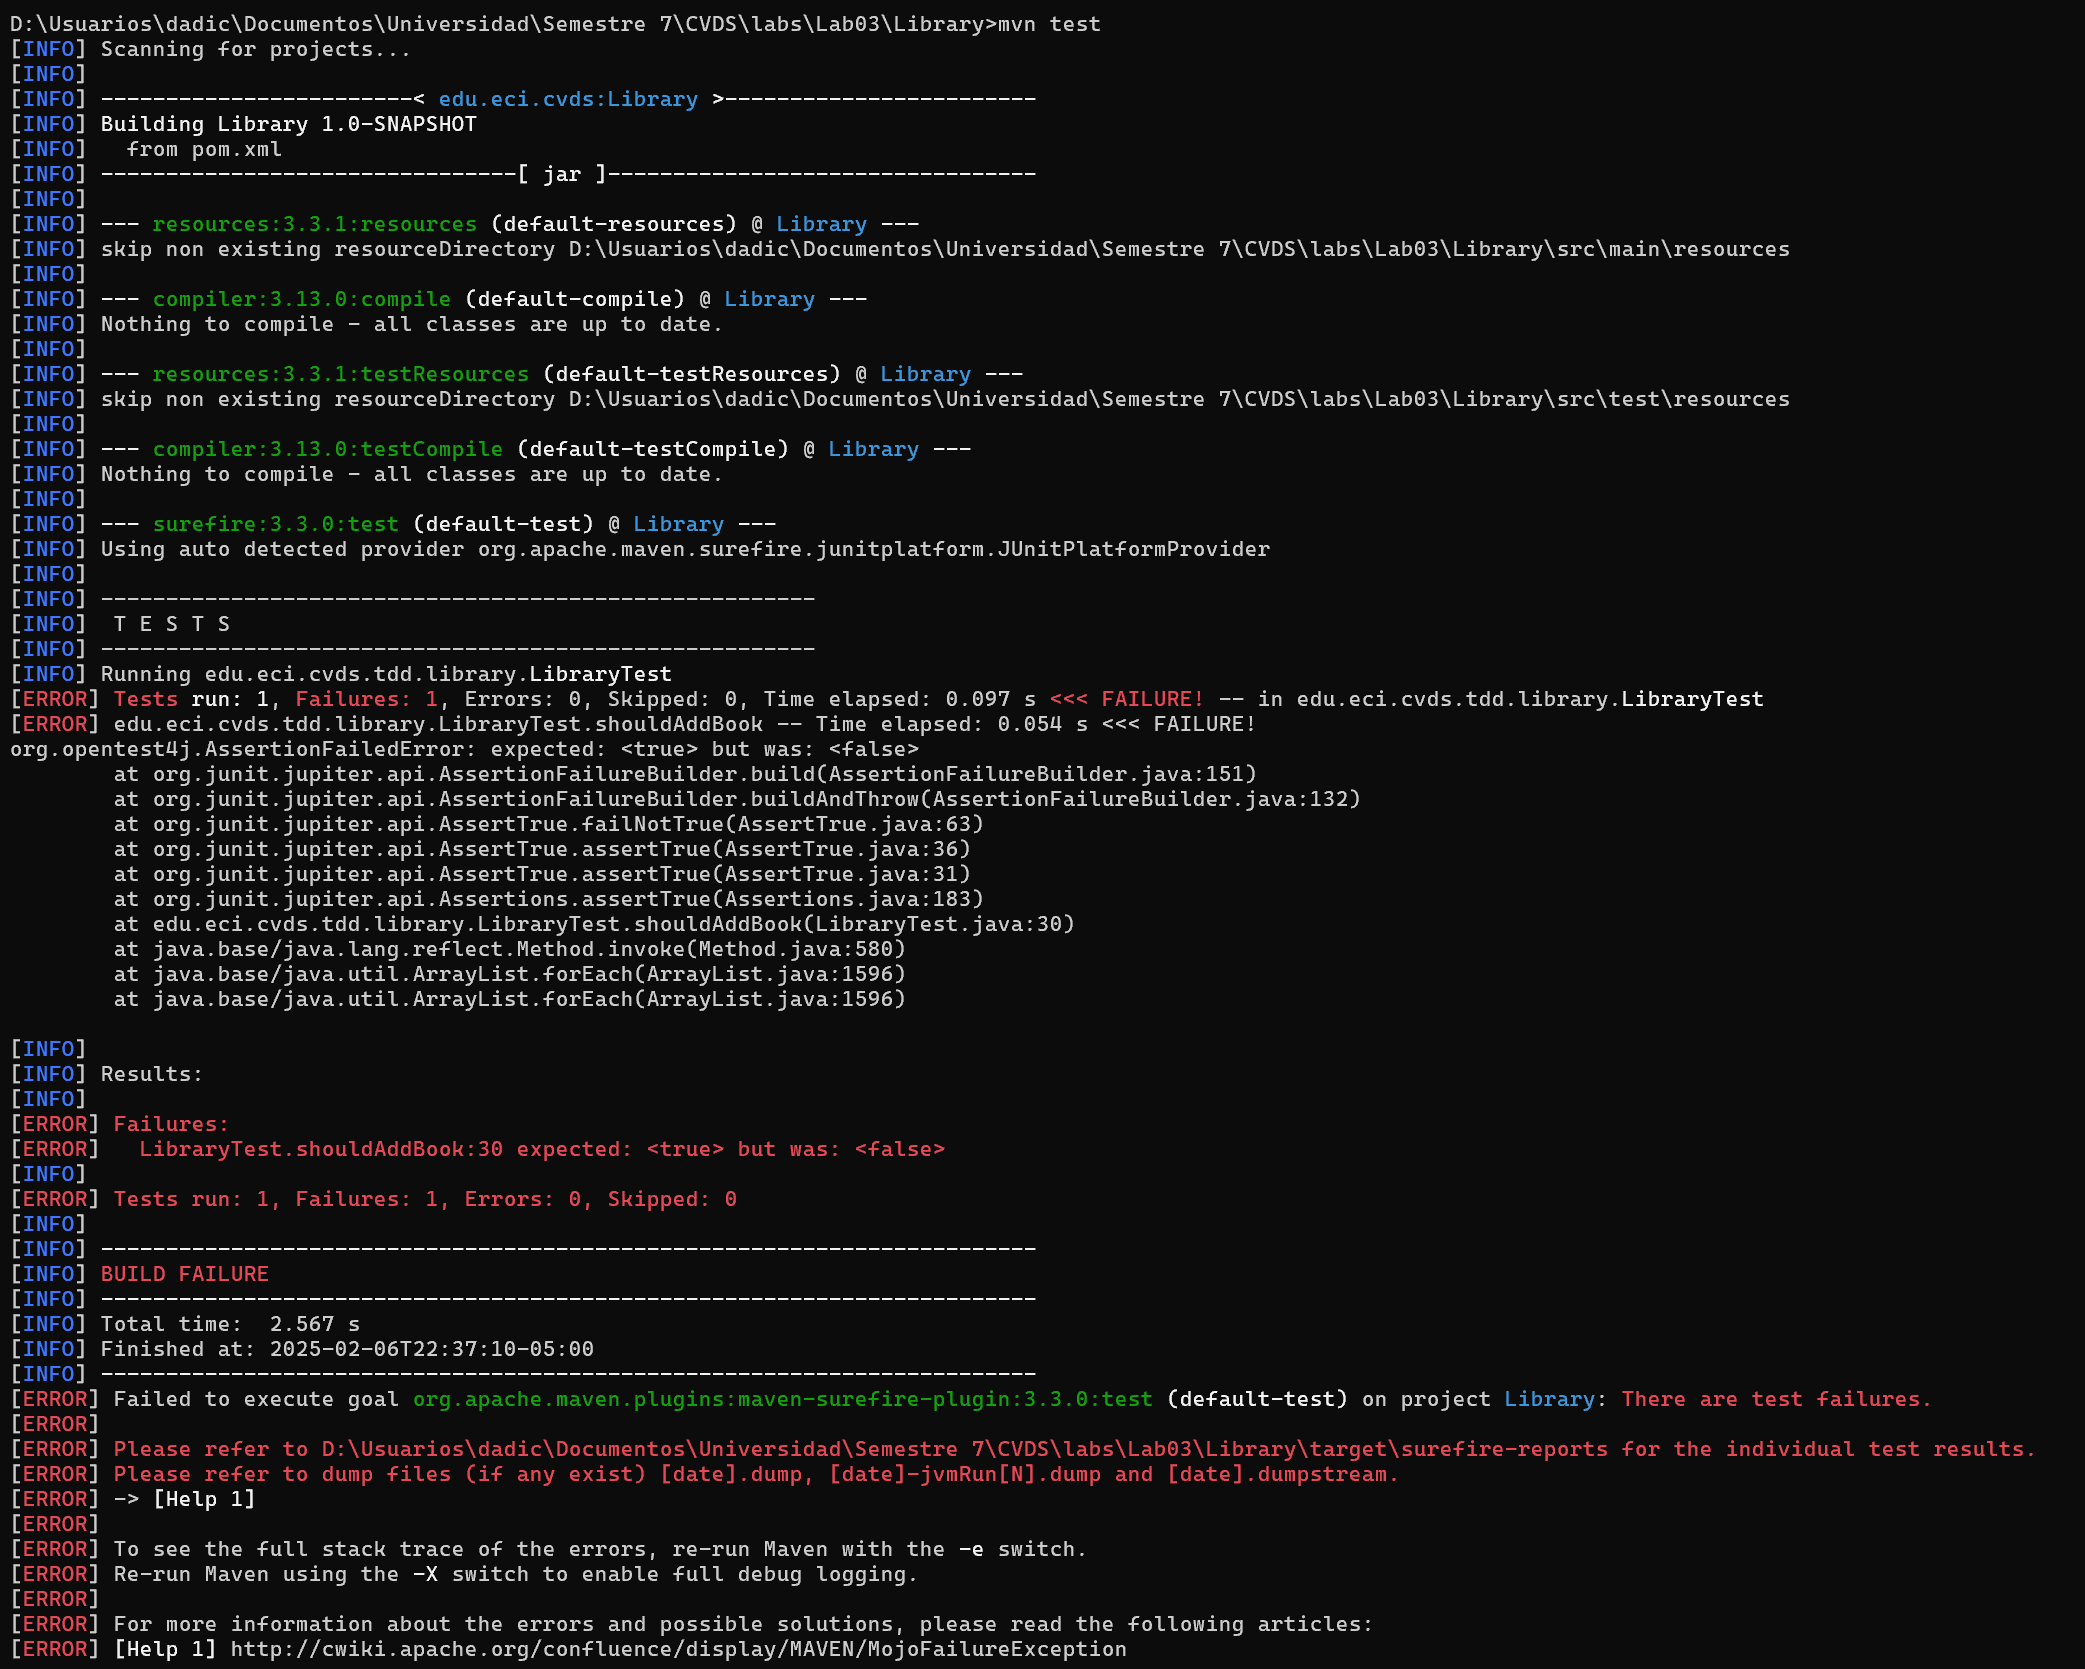
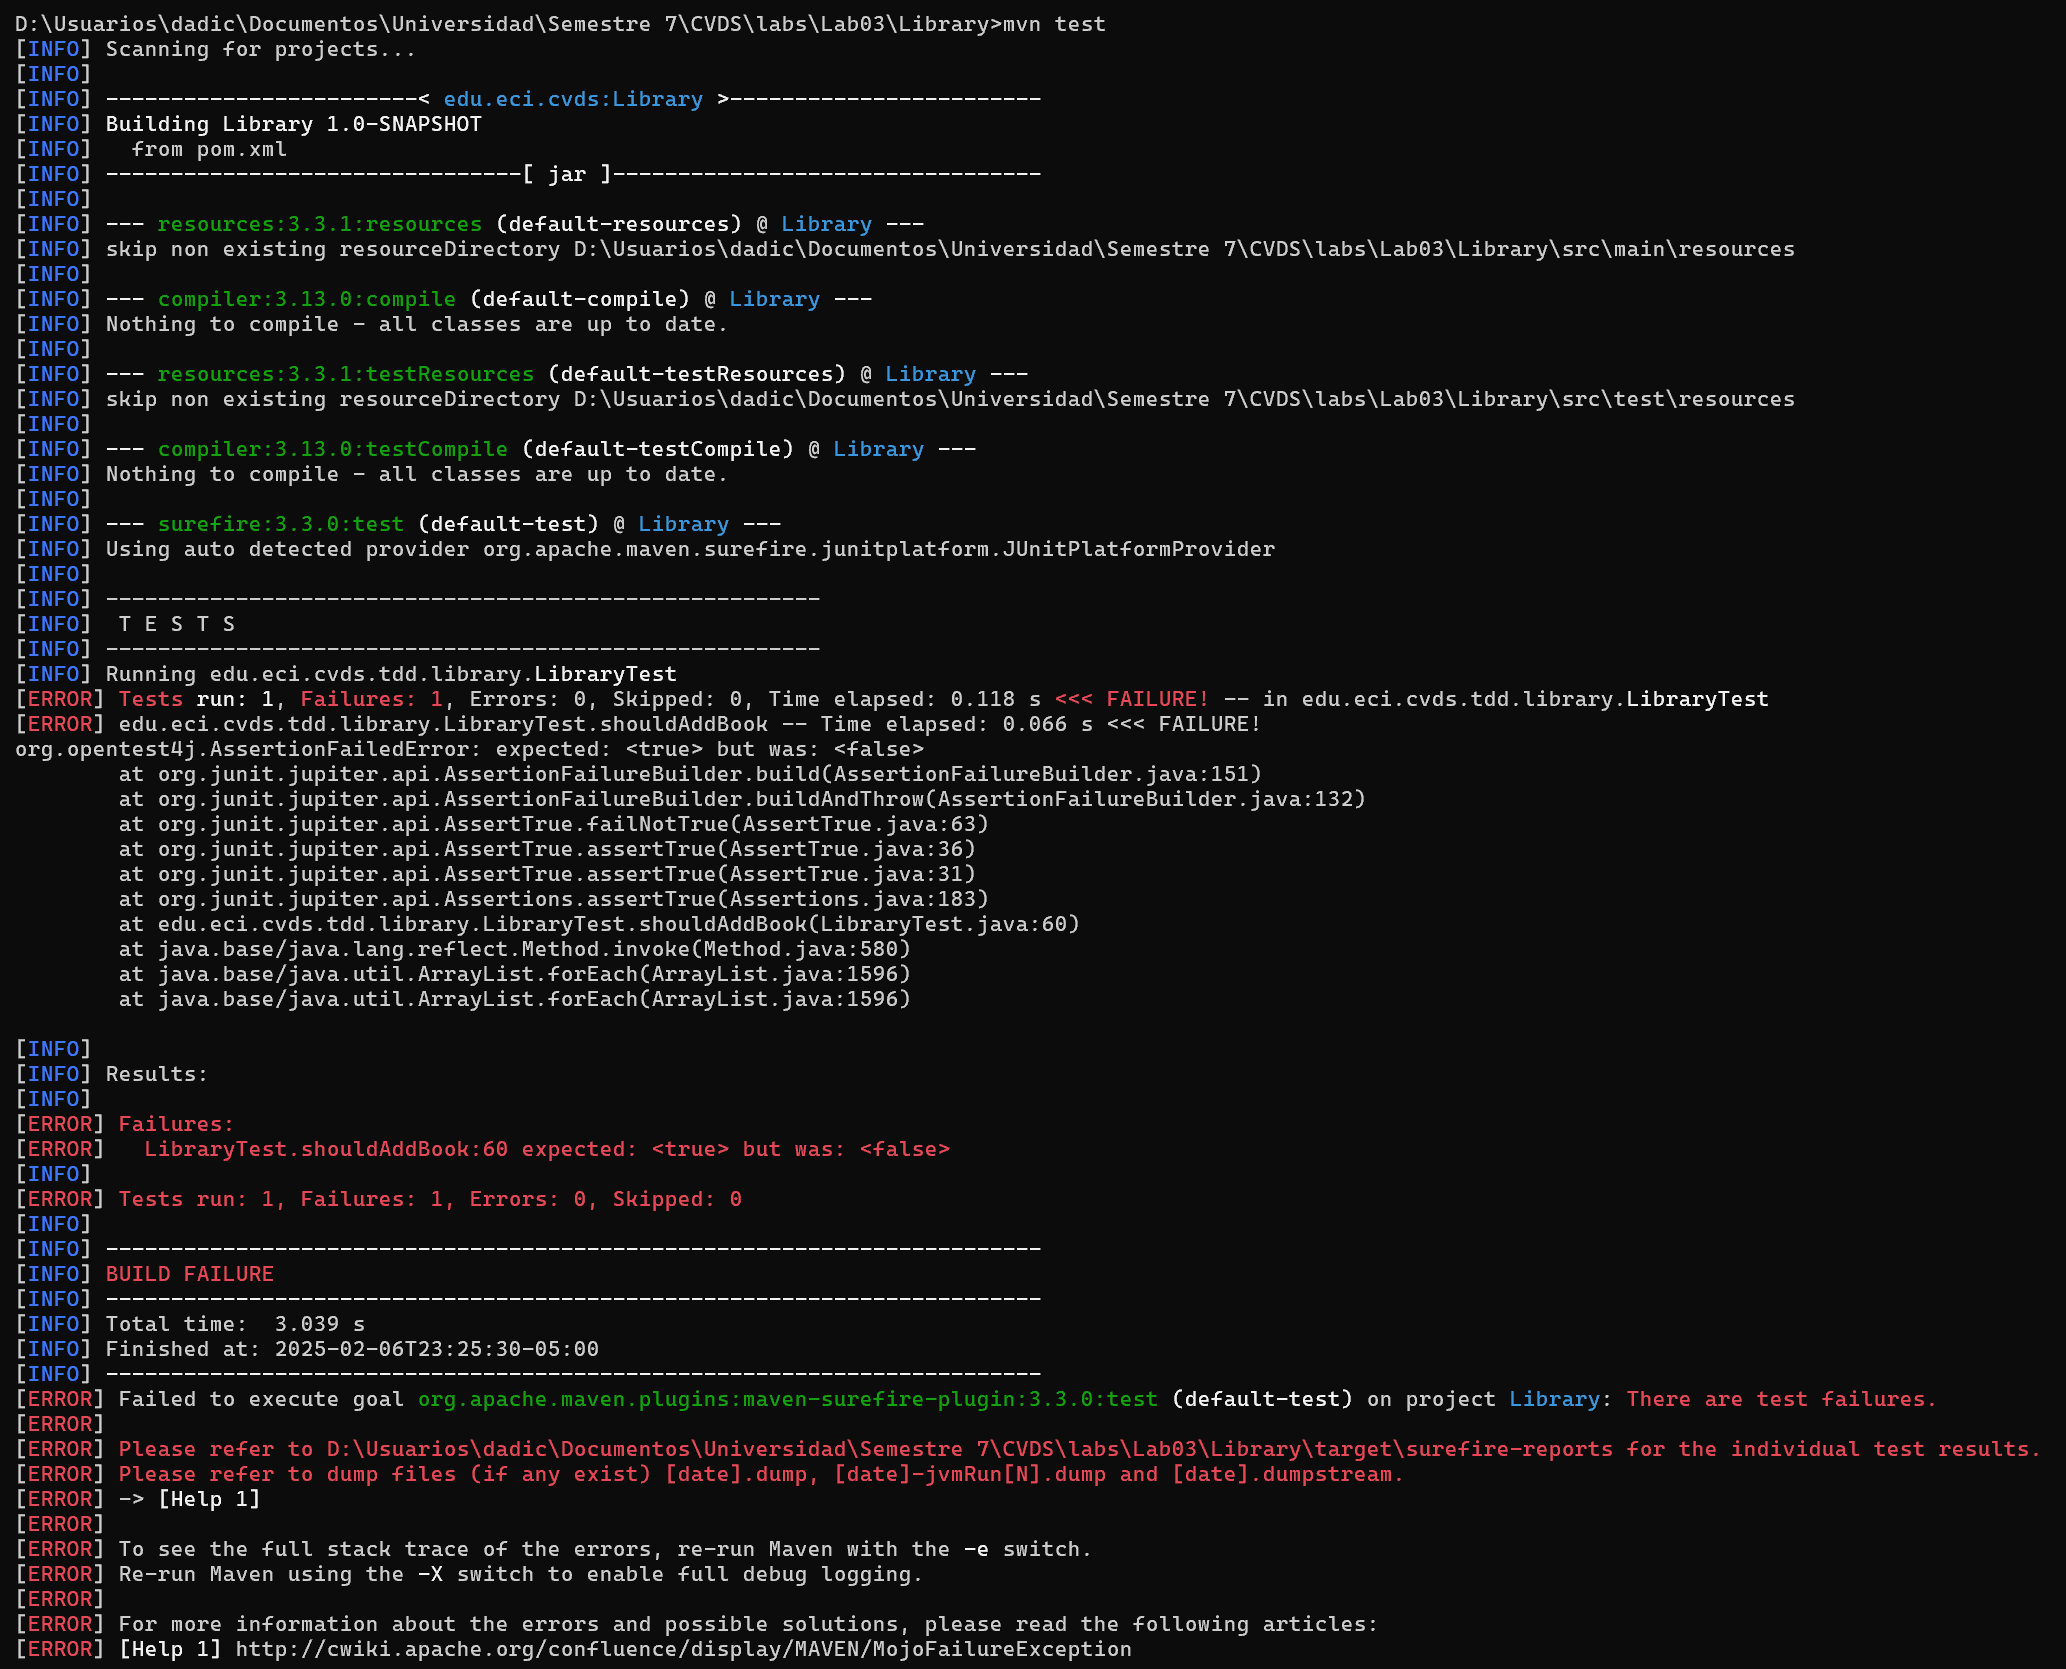
Implemente la prueba shouldLoanABook

Changed region(s): [[0.0, 0.0, 0.9603, 0.997]]

diff --git a/src/test/java/edu/eci/cvds/tdd/library/LibraryTest.java b/src/test/java/edu/eci/cvds/tdd/library/LibraryTest.java
@@ -1,11 +1,16 @@
 package edu.eci.cvds.tdd.library;
 
+import static org.junit.jupiter.api.Assertions.assertEquals;
+import static org.junit.jupiter.api.Assertions.assertNotNull;
 import static org.junit.jupiter.api.Assertions.assertTrue;
 
 import org.junit.jupiter.api.BeforeEach;
 import org.junit.jupiter.api.Test;
 
 import edu.eci.cvds.tdd.library.book.Book;
+import edu.eci.cvds.tdd.library.loan.Loan;
+import edu.eci.cvds.tdd.library.loan.LoanStatus;
+import edu.eci.cvds.tdd.library.user.User;
 
 public class LibraryTest {
     private Library library;
@@ -14,23 +19,65 @@ public class LibraryTest {
     private Book book3;
     private Book book4;
     private Book book5;
+    private User user1;
+    private User user2;
+
+    private User createUser(String name, String id) {
+        User user = new User();
+        user.setName(name);
+        user.setId(id);
+
+        return user;
+    }
     
     @BeforeEach
     public void setUp() {
         library = new Library();
+
         book1 = new Book("El principito", "Antoine de Saint-Exupéry", "978-607-99498-0-8");
         book2 = new Book("El principito", "Antoine de Saint-Exupéry", "978-849-83814-9-8");
         book3 = new Book("El principito", "Antoine de Saint-Exupéry", "978-847-88871-9-4");
         book4 = new Book("cien años de soledad", "Gabriel García Márquez", "978-849-75922-0-8");
         book5 = new Book("Don Quijote de la Mancha", "Miguel de Cervantes", "978-958-30044-4-5");
+
+        user1 = createUser("Daniel", "1032373105");
+        user2 = createUser("Vicente", "1028461832");
+
+        library.addBook(book1);
+        library.addBook(book2);
+        library.addBook(book3);
+        library.addBook(book4);
+        library.addBook(book5);
+
+        library.addUser(user1);
+        library.addUser(user2);
     }
 
     @Test
     public void shouldAddBook() {
-        assertTrue(library.addBook(book1));
-        assertTrue(library.addBook(book2));
-        assertTrue(library.addBook(book3));
-        assertTrue(library.addBook(book4));
-        assertTrue(library.addBook(book5));
+        Library tempLibrary = new Library();
+
+        assertTrue(tempLibrary.addBook(book1));
+        assertTrue(tempLibrary.addBook(book2));
+        assertTrue(tempLibrary.addBook(book3));
+        assertTrue(tempLibrary.addBook(book4));
+        assertTrue(tempLibrary.addBook(book5));
+    }
+
+    @Test
+    public void shouldLoanABook() {
+        // Loan to Daniel
+        Loan loan1 = library.loanABook("1032373105", "978-607-99498-0-8");
+        assertNotNull(loan1);
+        assertEquals(LoanStatus.ACTIVE, loan1.getStatus());
+        assertEquals("1032373105", loan1.getUser().getId());
+        assertEquals("978-607-99498-0-8", loan1.getBook().getIsbn());
+        
+        // Loan to Vicente
+        Loan loan2 = library.loanABook("1028461832", "978-849-75922-0-8");
+        assertNotNull(loan2);
+        assertEquals(LoanStatus.ACTIVE, loan2.getStatus());
+        assertEquals("1028461832", loan2.getUser().getId());
+        assertEquals("978-849-75922-0-8", loan2.getBook().getIsbn());
     }
 }
